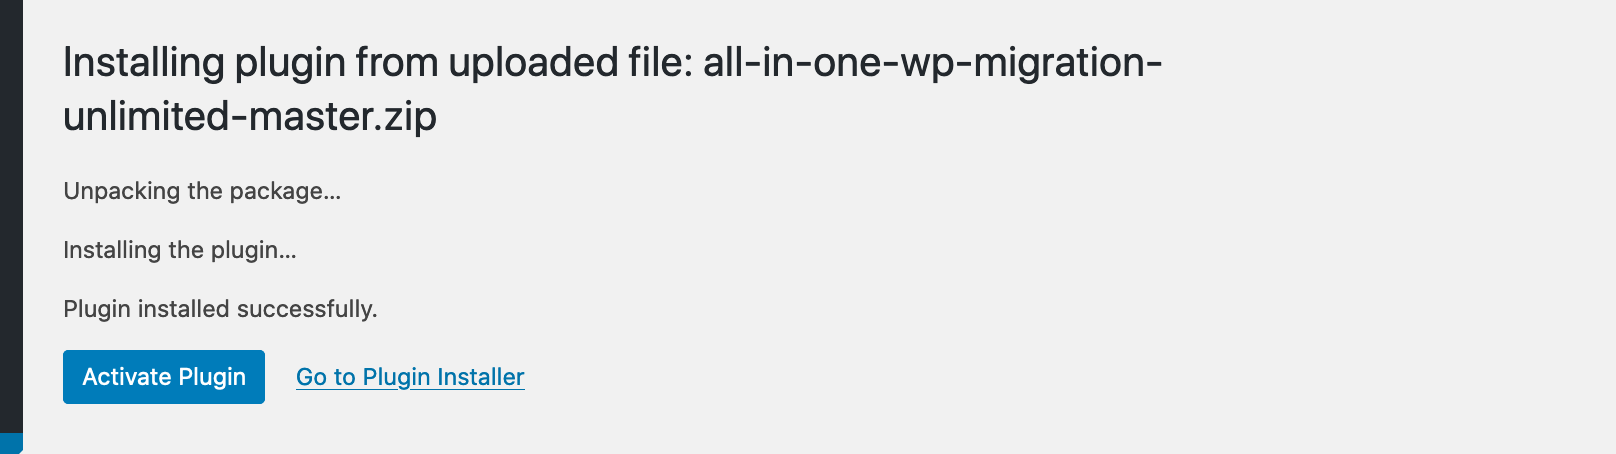
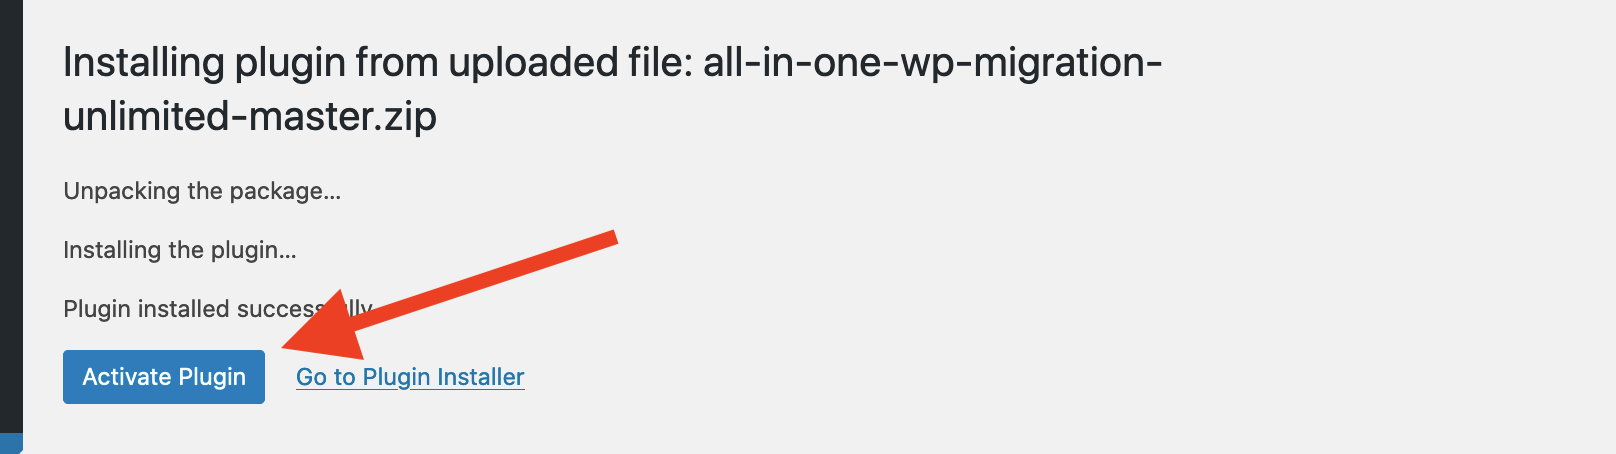
Updates ho hum

Changed region(s): [[0.0309, 0.4934, 0.4022, 0.8943], [0.0, 0.9559, 0.0309, 1.0]]

diff --git a/README.md b/README.md
@@ -118,7 +118,7 @@ The public IP address of the webserver will be found in the instance details. Yo
 
 1. Launch EC2 Instance → t2.micro, choose Linux of choice (Ubuntu for example). Follow the same steps as above, but select the desired version of Linux instead of the Bitnami AMI.
 
-2. Connect to server using SSH using your preferred SSH client.  You will use the keypair file that you selected or created when you launched the instance. Depending on your SSH client, you might encounter a warning about permissions on the keypair file.  
+2. Connect to server using the public IP address with your preferred SSH client.  You will use the keypair file that you selected or created when you launched the instance. Depending on your SSH client, you might encounter a warning about permissions on the keypair file.  
 
 ![EC2](img/ssh-pem-permissions.png)
 
@@ -157,7 +157,8 @@ nano /var/www/html/wp-config.php
 <p>
 
 10. Log into the instance
-Connect to server using SSH using your preferred SSH client.  You will use the keypair file that you selected or created when you launched the instance. 
+
+Connect to server using the public IP address with your preferred SSH client.  You will use the keypair file that you selected or created when you launched the instance. Depending on your SSH client, you might encounter a warning about permissions on the keypair file.
 
 ![Bitnami Console](img/BitnamiLogin.png)
 
@@ -165,11 +166,30 @@ Depending on your SSH client, you might encounter a warning about permissions on
 
 ![EC2](img/ssh-pem-permissions.png)
 
-11. The wordpress user credentials are found in the file `bitnami_credentials`
+11. Now that you are logged into the instance, you can view the wordpress credentials. These credentials are found in the file `bitnami_credentials`
 
 ![Bitnami Console](img/BitnamiConsole.png)
 
-12. Log
+12. Log into the Wordpress Console for the website
+
+![WordPress Login](img/WordpressLogin.png)
+
+![WordPress Console](img/WordpressAdminPortal.png)
+
+13. Once logged into the Wordpress console, you will need to install a plugin that will be used to import the data and files from the source website.  This plugin is called **All-In-One WP Migration** and you will install it using the file location.  Navigate the the menu on the left and expand the section **Plugins** and select **Add New** as show here:
+
+![WordPress Console](img/WordpressAddPlugin1.png)
+
+![WordPress Add Plugin](img/WordpressAddNewPlugin.png)
+
+
+Use the following URL for the plugin: `https://github.com/onepagezen/all-in-one-wp-migration-unlimited/archive/master.zip`
+
+Once the plugin is installed, click on **Activate**
+
+![Plugin Install](img/Wordpress-Install-AllInOneWPMigration.png)
+
+
 
 
 
